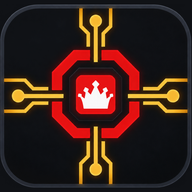
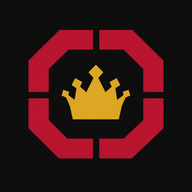
Adopt approved red and gold OpsCenter identity

diff --git a/components/OpsShell.tsx b/components/OpsShell.tsx
@@ -57,12 +57,9 @@ export default function OpsShell({
       />
       <label htmlFor="ops-sidebar-toggle" className="ops-sidebar-backdrop" aria-hidden="true" />
       <aside className="ops-sidebar">
-        <div className="ops-brand">
-          <OpsCenterLogo className="opscenter-logo" />
-          <div className="ops-brand-product">
-            <div className="ops-brand-title">OpsCenter</div>
-            <div className="ops-brand-subtitle">Junk King Louisiana</div>
-          </div>
+        <div className="ops-brand" style={{ display: "block" }}>
+          <OpsCenterLogo />
+          <div className="ops-brand-subtitle" style={{ marginTop: 8 }}>Junk King Louisiana</div>
         </div>
 
         <Suspense fallback={<nav className="ops-nav" aria-hidden="true" />}>
@@ -88,8 +85,7 @@ export default function OpsShell({
       <main className="ops-main">
         <div className="ops-main-frame">
           <div className="ops-mobile-brand" aria-label="Junk King OpsCenter">
-            <OpsCenterLogo className="opscenter-logo ops-mobile-opscenter-logo" />
-            <span>OpsCenter</span>
+            <div style={{ width: 180, maxWidth: "100%" }}><OpsCenterLogo /></div>
           </div>
           <header className="ops-topbar">
             <div className="ops-topbar-search">

diff --git a/lib/auth.ts b/lib/auth.ts
@@ -37,7 +37,7 @@ export const AUTH_PUBLIC_API_ROUTES = [
   "/api/integrations/qbo/connect",
   "/api/integrations/qbo/callback",
 ] as const;
-export const AUTH_PUBLIC_FILES = ["/junk-king-logo.svg", "/opscenter-icon.svg", "/opscenter-apple-icon.png", "/opscenter-logo.png", "/opscenter-favicon.png", "/favicon.ico", "/opscenter-app-192.png", "/opscenter-app-512.png", "/opscenter.webmanifest"] as const;
+export const AUTH_PUBLIC_FILES = ["/junk-king-logo.svg", "/opscenter-icon.svg", "/opscenter-apple-icon.png", "/opscenter-logo.png", "/opscenter-wordmark.png", "/opscenter-favicon.png", "/favicon.ico", "/opscenter-app-192.png", "/opscenter-app-512.png", "/opscenter.webmanifest"] as const;
 export const AUTH_PROTECTED_API_PREFIXES = ["/api/desktop/photos", "/api/exceptions", "/api/operational-status", "/api/inbox", "/api/global-search", "/api/fleet-map", "/api/fleet-maintenance", "/api/fleet-checklists", "/api/fleet-checklist-templates", "/api/fleet-checklist-photos", "/api/fleet-issues", "/api/fleet-issue-photos", "/api/fleet-issue-attachments", "/api/truck-load-status", "/api/manual-bonuses", "/api/payroll-corrections", "/api/searchkings", "/api/integrations/qbo/status", "/api/integrations/qbo/disconnect"] as const;
 export const LEGACY_VERIFICATION_CODE_FLOW_ENABLED = false;
 

diff --git a/app/login/page.tsx b/app/login/page.tsx
@@ -29,12 +29,9 @@ export default async function LoginPage({ searchParams }: LoginPageProps) {
     <main className="ops-login-shell">
       <div className="ops-login-grid" aria-hidden="true" />
       <section className="ops-login-brand-panel">
-        <div className="ops-login-brand">
-          <OpsCenterLogo className="opscenter-logo ops-login-opscenter-logo" />
-          <div>
-            <div className="ops-login-wordmark">OPSCENTER</div>
-            <div className="ops-login-designation">JUNK KING LOUISIANA</div>
-          </div>
+        <div className="ops-login-brand" style={{ display: "block", width: 360, maxWidth: "100%" }}>
+          <OpsCenterLogo />
+          <div className="ops-login-designation" style={{ marginTop: 12 }}>JUNK KING LOUISIANA</div>
         </div>
         <div className="ops-login-hero">
           <div className="ops-login-kicker"><span /> Louisiana Operations</div>

diff --git a/components/OpsCenterLogo.tsx b/components/OpsCenterLogo.tsx
@@ -2,11 +2,11 @@ type OpsCenterLogoProps = {
   className?: string;
 };
 
-/** Approved JK crown and circuit artwork shared by the application shells. */
+/** Approved red-and-gold identity, including the custom OpsCenter wordmark. */
 export default function OpsCenterLogo({ className = "" }: OpsCenterLogoProps) {
   return (
-    // Static branding is served directly so the same asset works before login.
+    // Public static artwork is also available before login.
     // eslint-disable-next-line @next/next/no-img-element
-    <img className={className} src="/opscenter-logo.png?v=2" alt="OpsCenter" width={512} height={512} />
+    <img className={className} src="/opscenter-wordmark.png?v=3" alt="OpsCenter" width={1400} height={321} style={{ display: "block", width: "100%", height: "auto", filter: "none" }} />
   );
 }

diff --git a/desktop-ui/index.html b/desktop-ui/index.html
@@ -5,9 +5,9 @@
     <meta name="viewport" content="width=device-width, initial-scale=1.0" />
     <meta name="theme-color" content="#f1f3f1" />
     <title>OpsCenter | Junk King | Louisiana</title>
-    <link rel="icon" type="image/png" sizes="32x32" href="/opscenter-favicon.png?v=2" />
-    <link rel="apple-touch-icon" sizes="180x180" href="/opscenter-apple-icon.png?v=2" />
-    <link rel="manifest" href="/opscenter.webmanifest?v=2" />
+    <link rel="icon" type="image/png" sizes="32x32" href="/opscenter-favicon.png?v=3" />
+    <link rel="apple-touch-icon" sizes="180x180" href="/opscenter-apple-icon.png?v=3" />
+    <link rel="manifest" href="/opscenter.webmanifest?v=3" />
     <meta name="apple-mobile-web-app-capable" content="yes" />
     <meta name="apple-mobile-web-app-title" content="OpsCenter" />
   </head>

diff --git a/desktop-ui/app/page.tsx b/desktop-ui/app/page.tsx
@@ -4196,9 +4196,9 @@ export default function Home({ live }: { live?: DesktopLiveProps } = {}) {
   return (
     <main className={live ? 'ops-app ops-live' : 'ops-app'}>
       <aside className="ops-sidebar">
-        <div className="brand-lockup">
-          <img className="brand-mark opscenter-brand-image" src="/opscenter-logo.png?v=2" alt="OpsCenter" width={39} height={39} />
-          <div><strong>OpsCenter</strong><small>Junk King Louisiana</small></div>
+        <div className="brand-lockup" style={{ display: 'block' }}>
+          <img src="/opscenter-wordmark.png?v=3" alt="OpsCenter" width={1400} height={321} style={{ display: 'block', width: '100%', height: 'auto' }} />
+          <small style={{ marginTop: 8 }}>Junk King Louisiana</small>
         </div>
 
         <NavigationDiagnostics />

diff --git a/app/layout.tsx b/app/layout.tsx
@@ -10,10 +10,10 @@ export const metadata: Metadata = {
   description: "OpsCenter for Junk King | Louisiana",
   applicationName: "OpsCenter",
   icons: {
-    icon: { url: "/opscenter-favicon.png?v=2", sizes: "32x32", type: "image/png" },
-    apple: { url: "/opscenter-apple-icon.png?v=2", sizes: "180x180", type: "image/png" },
+    icon: { url: "/opscenter-favicon.png?v=3", sizes: "32x32", type: "image/png" },
+    apple: { url: "/opscenter-apple-icon.png?v=3", sizes: "180x180", type: "image/png" },
   },
-  manifest: "/opscenter.webmanifest?v=2",
+  manifest: "/opscenter.webmanifest?v=3",
   appleWebApp: {
     capable: true,
     title: "OpsCenter",

diff --git a/docs/prototype-source-release.md b/docs/prototype-source-release.md
@@ -2,13 +2,20 @@
 
 ## OpsCenter icons
 
-The desktop sidebar, login page and legacy shells use `/opscenter-logo.png`,
-the approved red-and-gold circuit artwork with the JK crown. The 32px
-`/opscenter-favicon.png` and `/favicon.ico` serve browser tabs; the 180px
-`/opscenter-apple-icon.png` serves Apple home screens. `/opscenter.webmanifest`
-selects the 192px and 512px app icons for installation. These assets are public
-before login and use versioned URLs. The prior SVG URL carries the same artwork
-for compatibility. The inspection app retains its own route-specific identity.
+The desktop sidebar, login page and legacy shells use
+`/opscenter-wordmark.png`: the approved segmented red O, gold JK crown and
+custom OpsCenter wordmark (Ops red, Center gold), with black and white accents.
+The square `/opscenter-logo.png` carries the same identity for icon consumers.
+The 32px `/opscenter-favicon.png` and `/favicon.ico` serve browser tabs; the
+180px `/opscenter-apple-icon.png` serves Apple home screens.
+`/opscenter.webmanifest` selects the 192px and 512px app icons for installation.
+These assets are public before login and use version 3 URLs. The prior SVG URL
+embeds the new icon for compatibility. Phone-app branding remains separate.
+
+The September 19, 2026 artwork is packaged from the user-approved image concept.
+The full wordmark is an image to preserve the approved typography, with an
+OpsCenter text alternative. Palette targets are red `#B51935`, gold `#D9A526`,
+black `#111111` and white `#FFFFFF`. This replaces the former circuit artwork.
 
 ## Shared red palette
 
